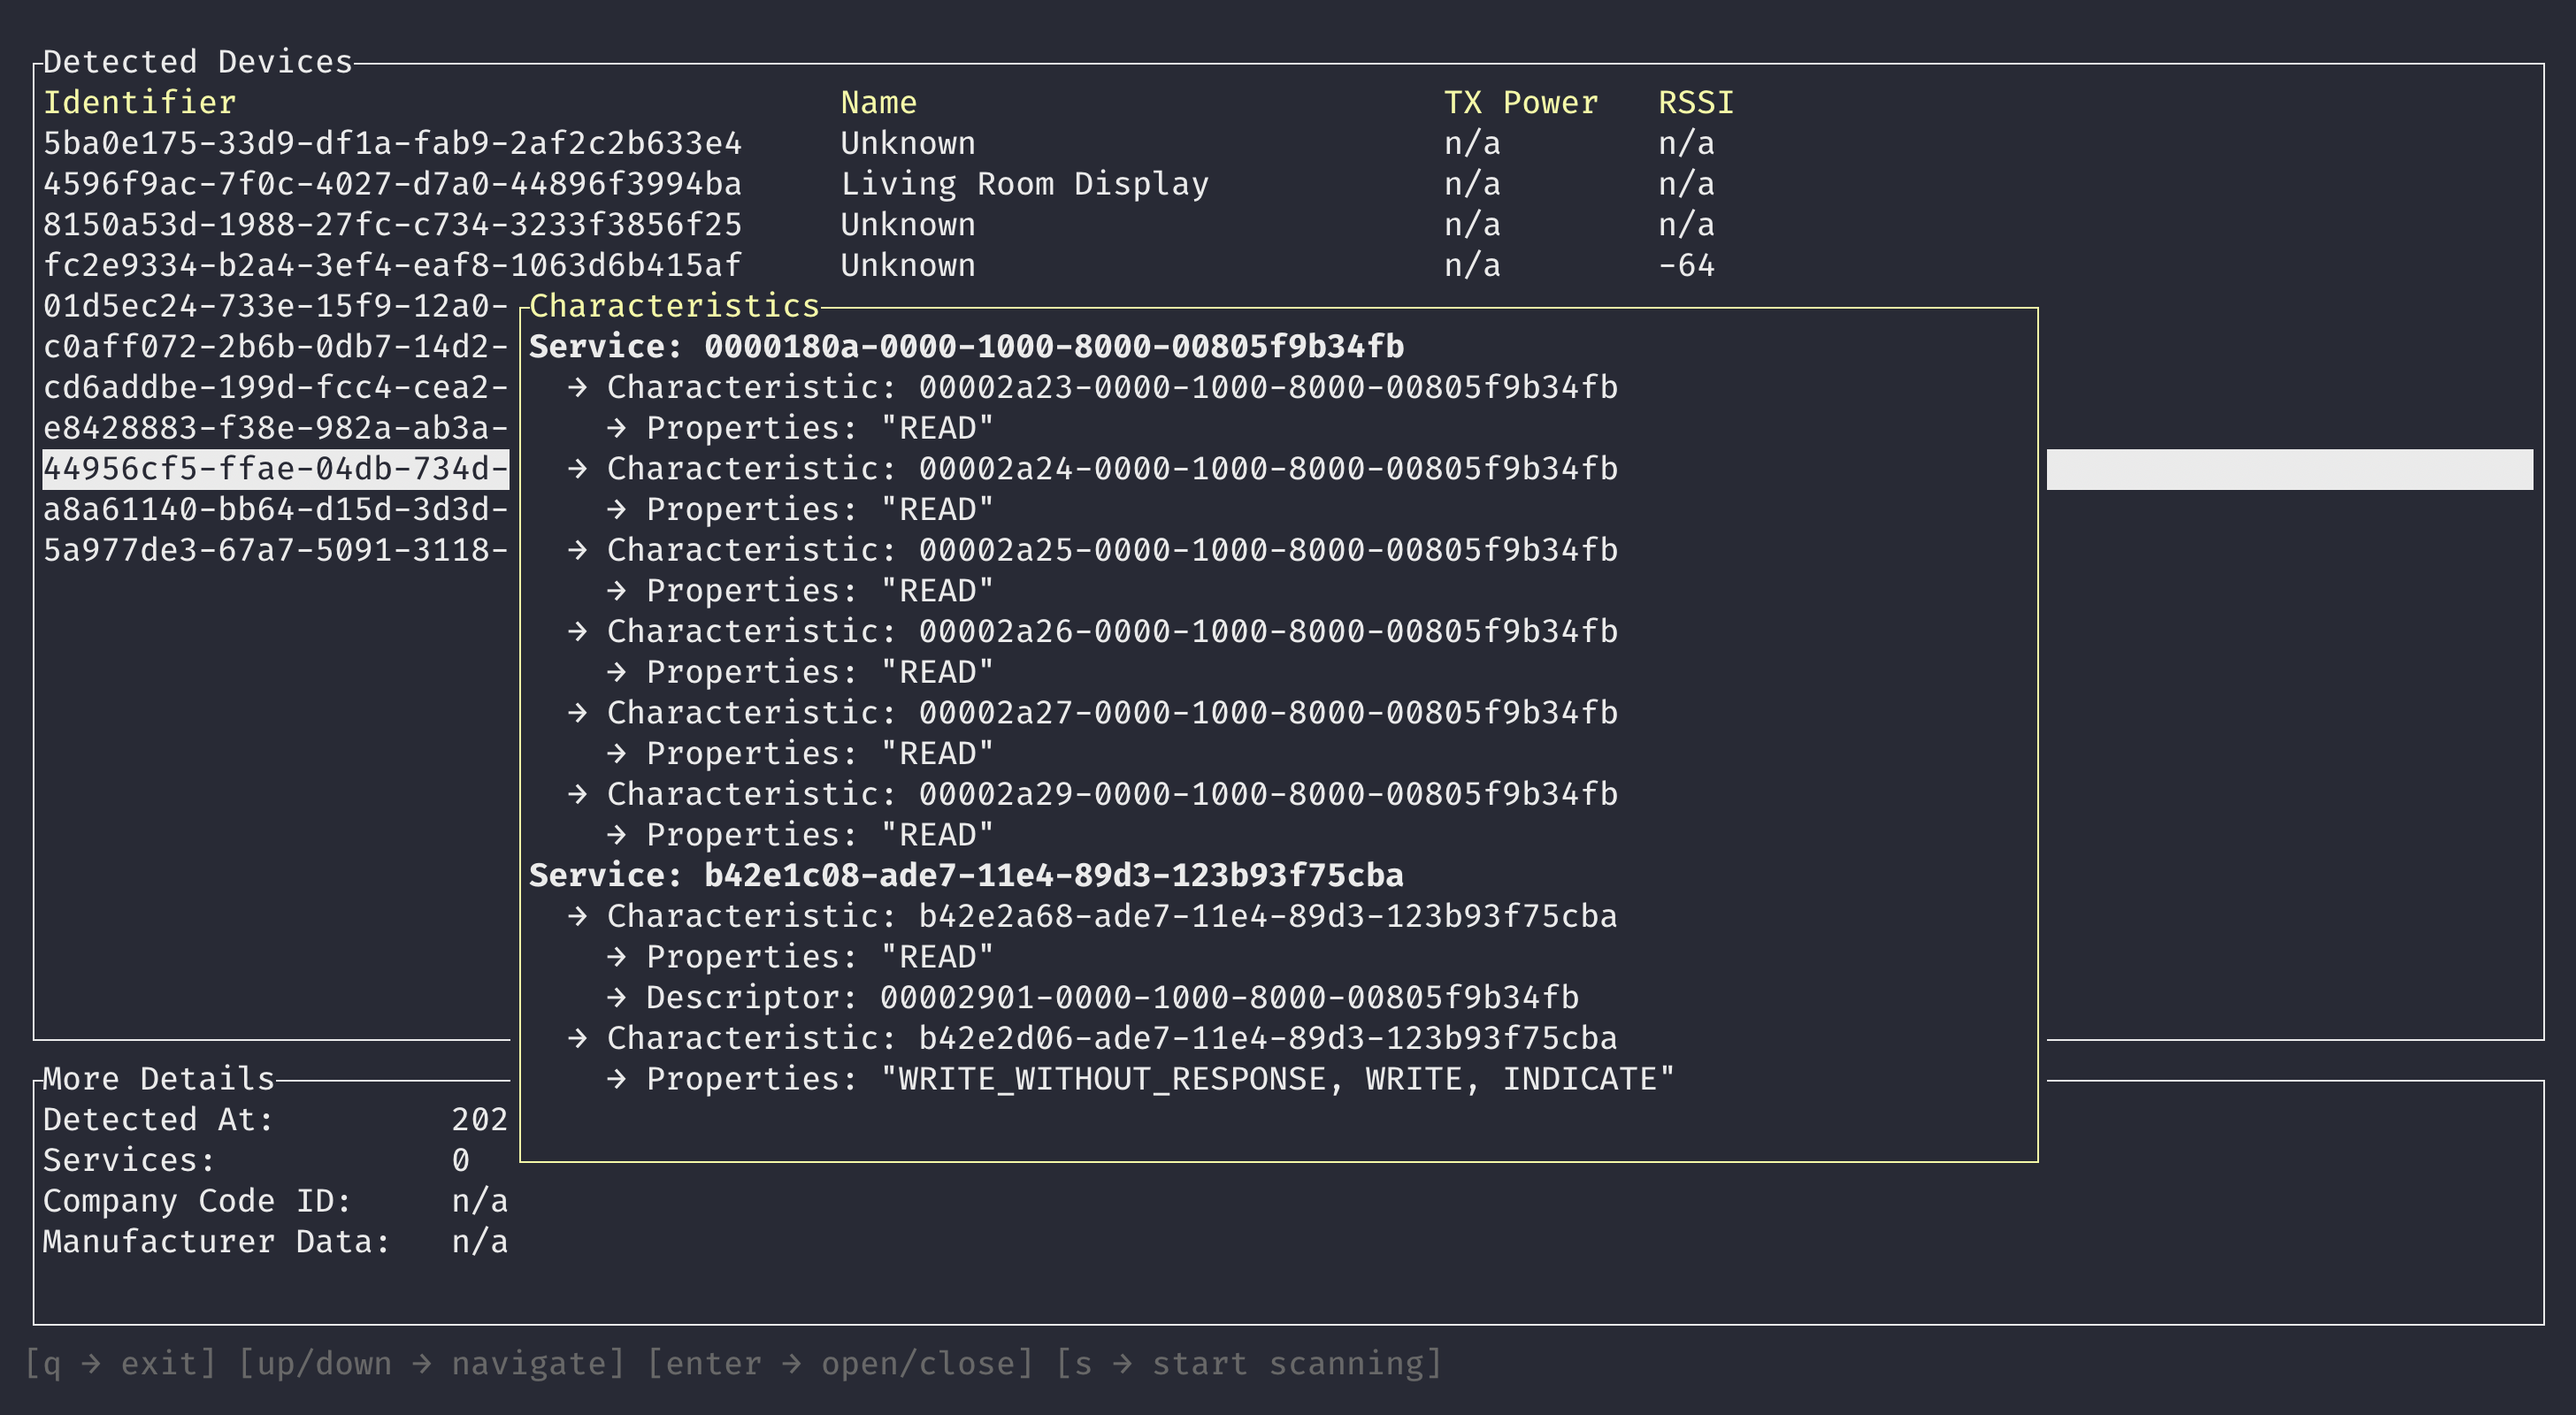
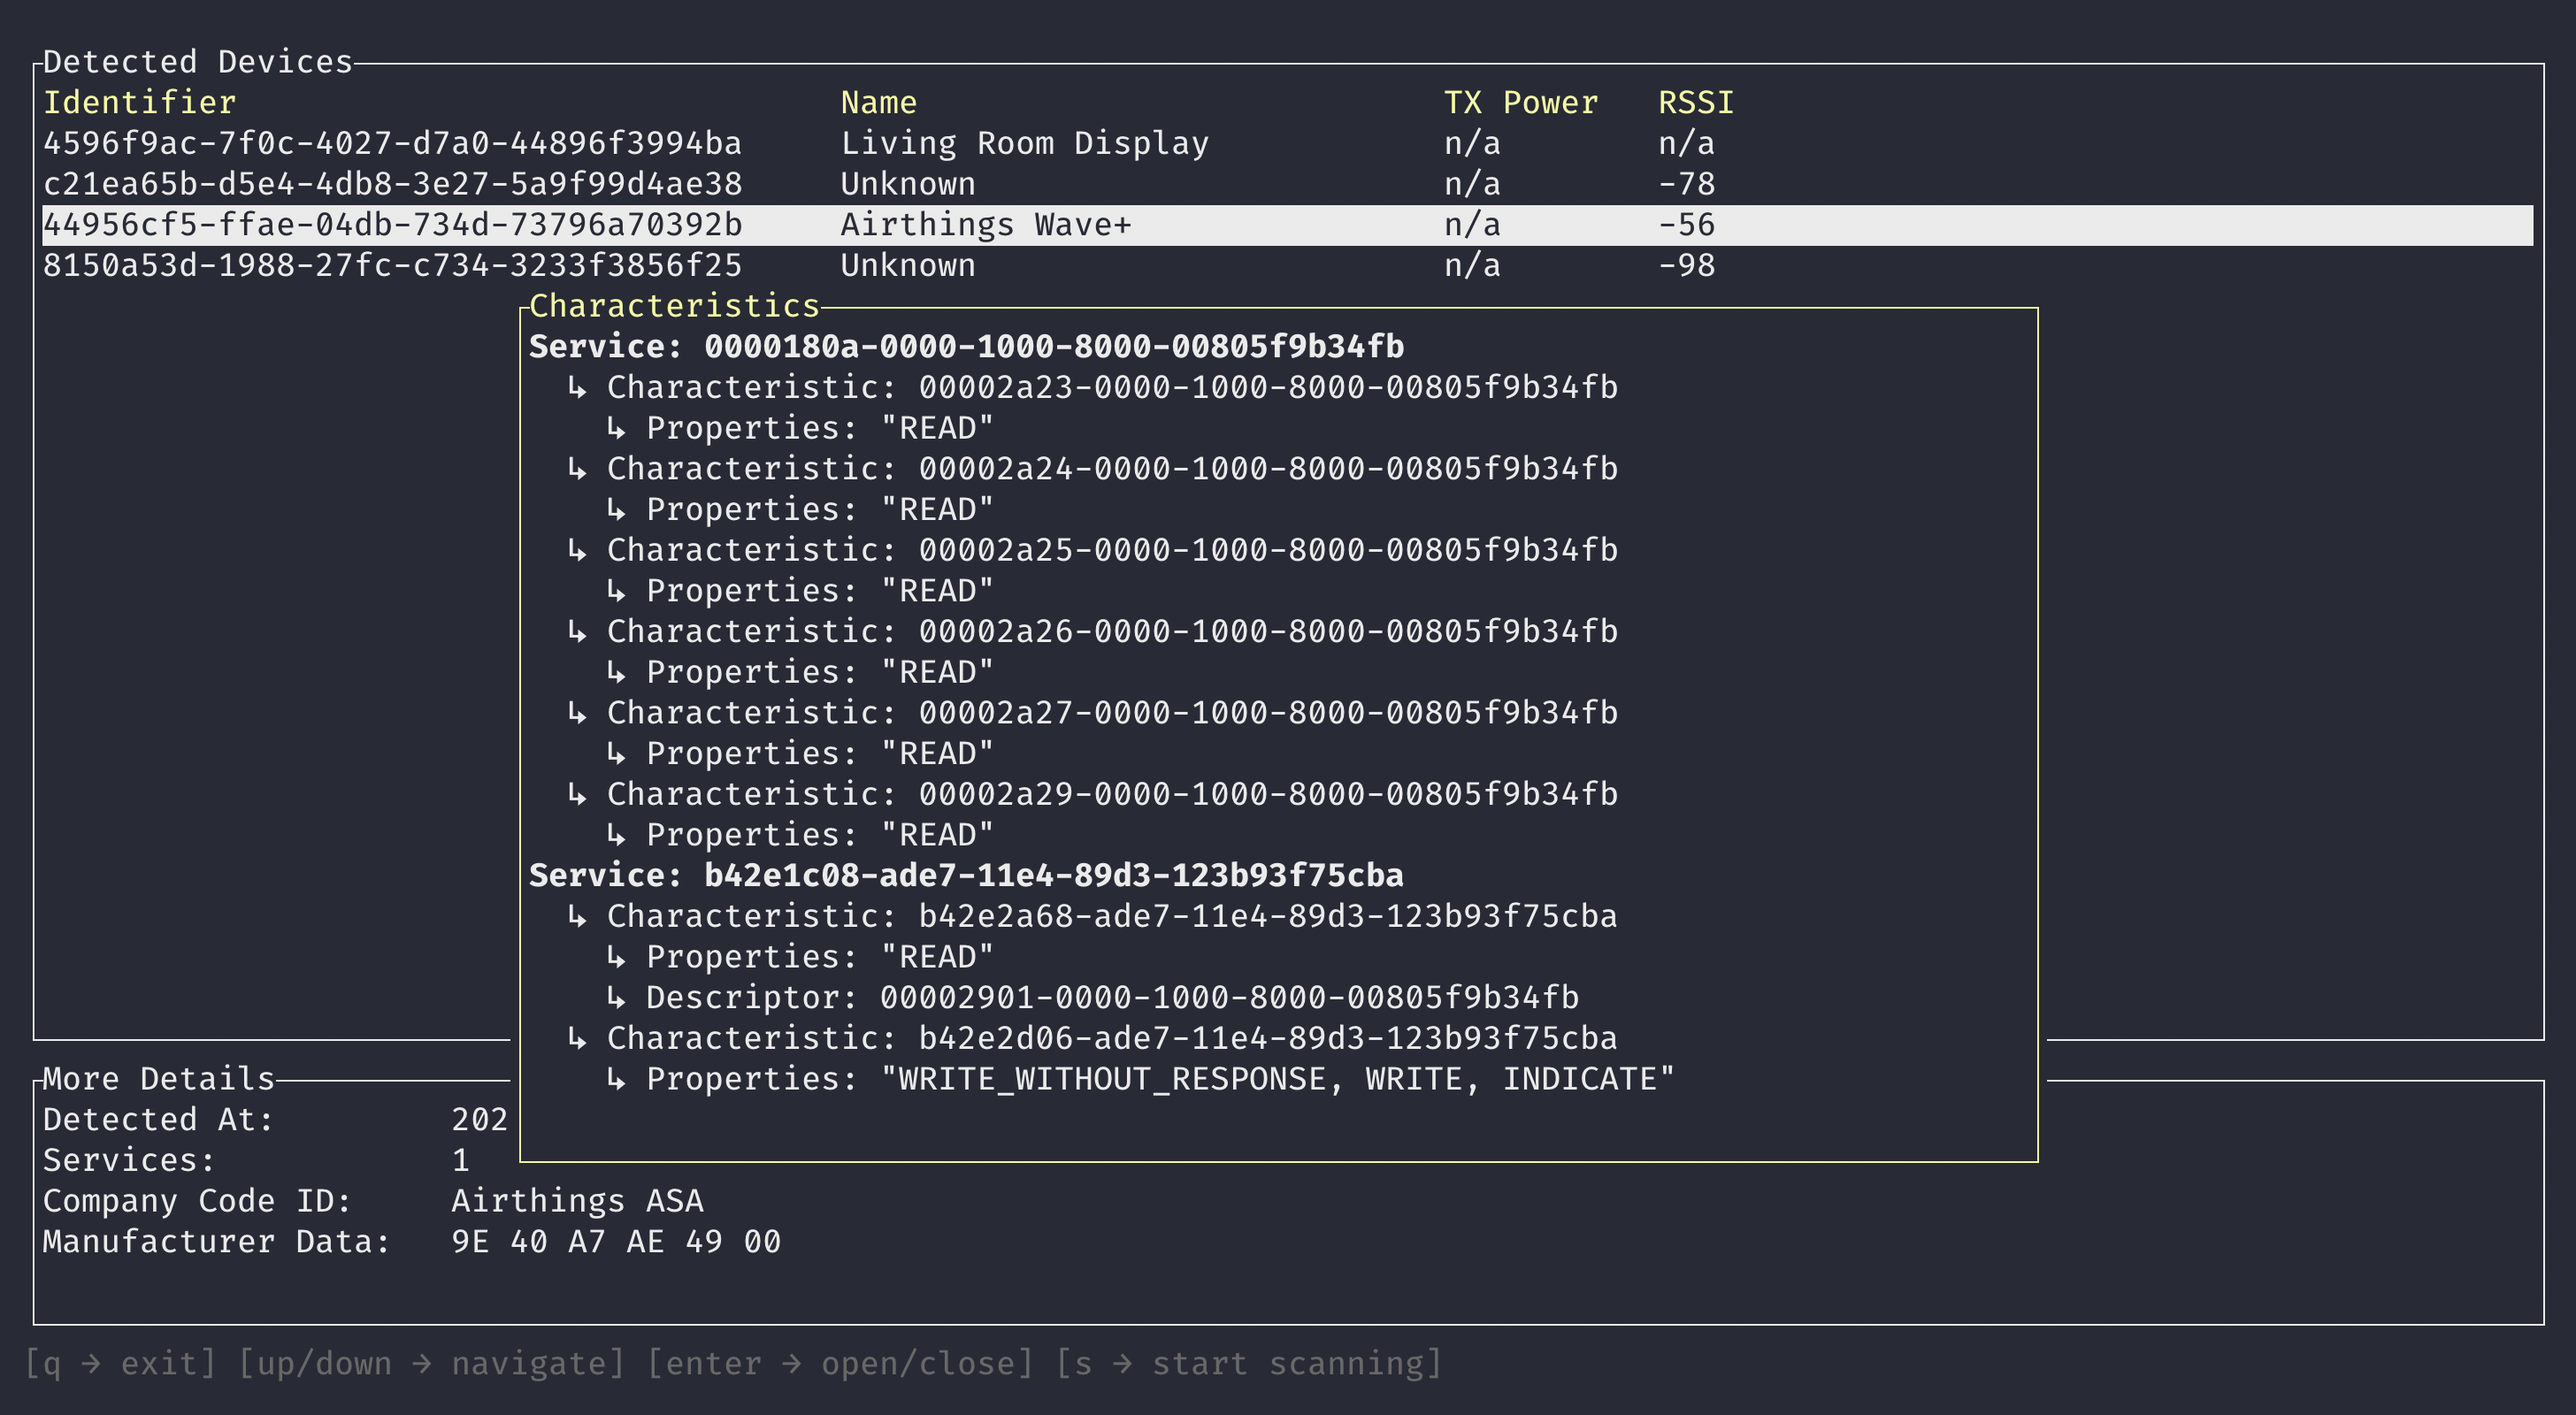
Update arrow

Changed region(s): [[0.0, 0.0938, 1.0, 0.4062], [0.7812, 0.3125, 1.0, 0.3438], [0.1562, 0.8438, 0.2812, 0.9062]]

diff --git a/src/widgets/inspect_overlay.rs b/src/widgets/inspect_overlay.rs
@@ -46,14 +46,14 @@ pub fn inspect_overlay(
             );
 
             rows.push(Row::new(vec![format!(
-                "  → Characteristic: {}",
+                "  ↳ Characteristic: {}",
                 characteristic.uuid.to_string()
             )]));
-            rows.push(Row::new(vec![format!("    → Properties: {}", properties)]));
+            rows.push(Row::new(vec![format!("    ↳ Properties: {}", properties)]));
 
             for descriptor in characteristic.descriptors.iter() {
                 rows.push(Row::new(vec![format!(
-                    "    → Descriptor: {}",
+                    "    ↳ Descriptor: {}",
                     descriptor.to_string()
                 )]));
             }
